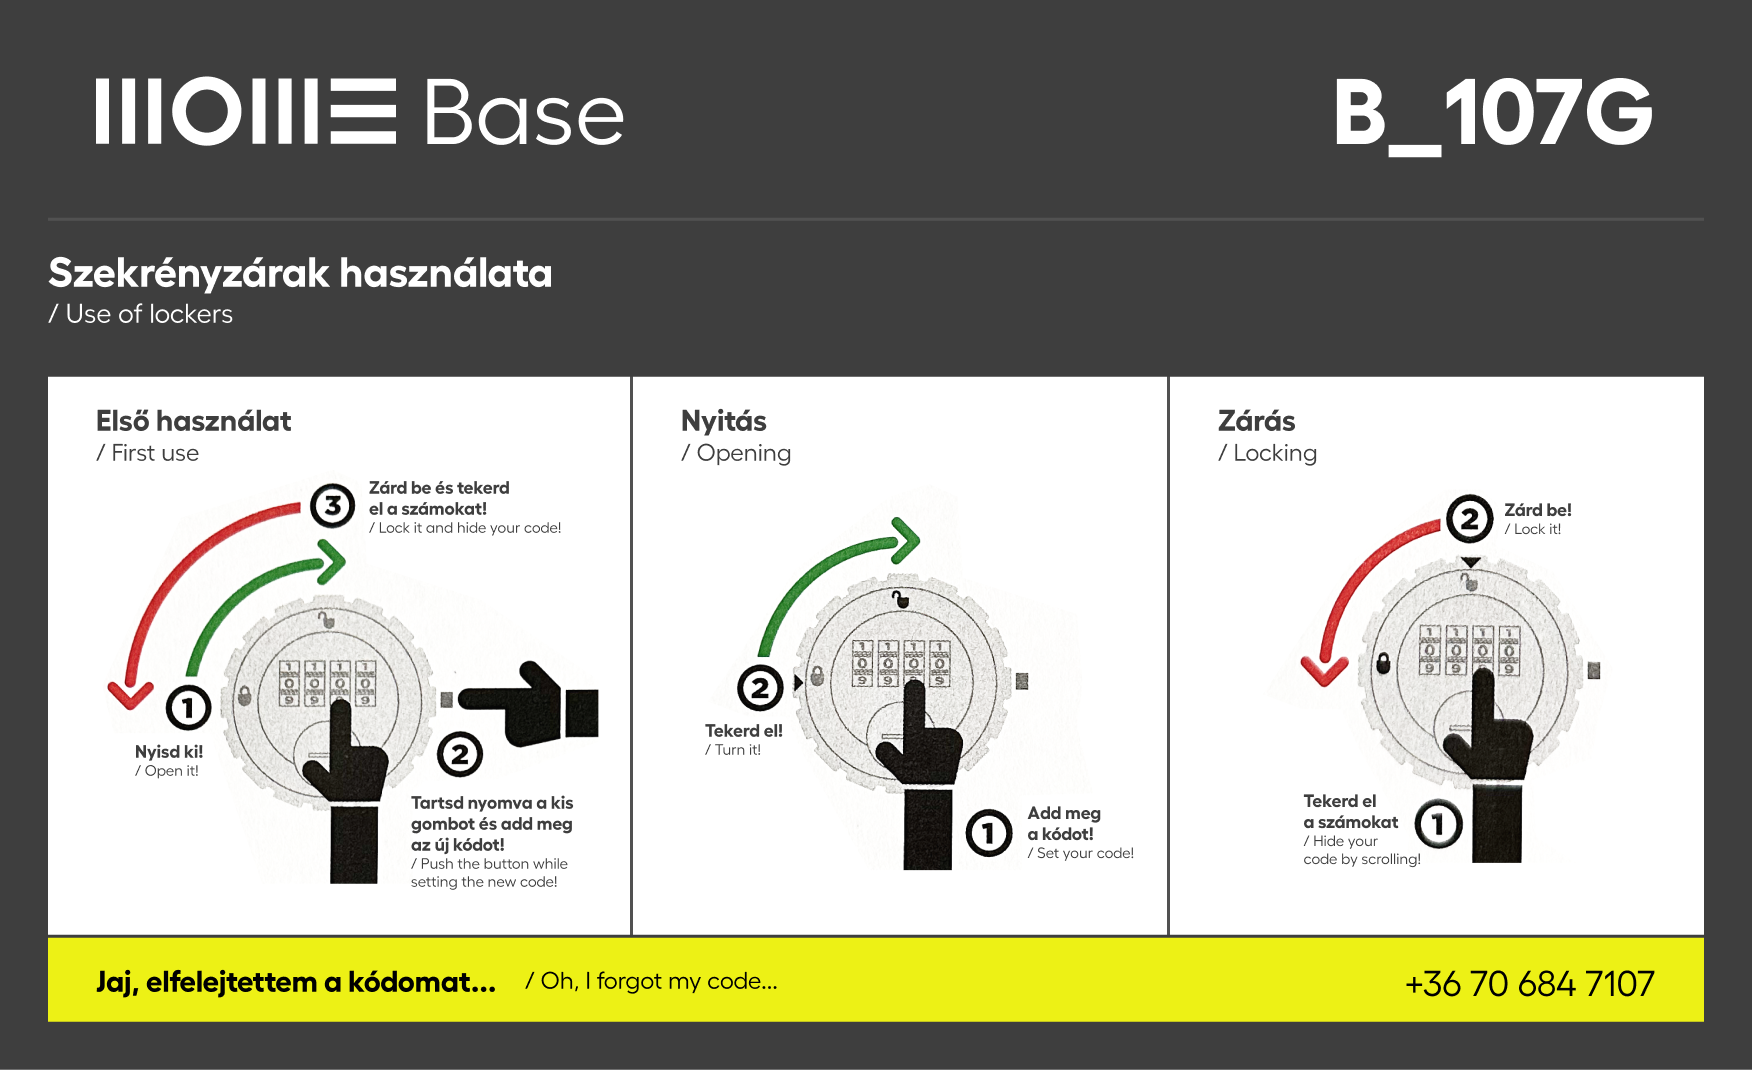
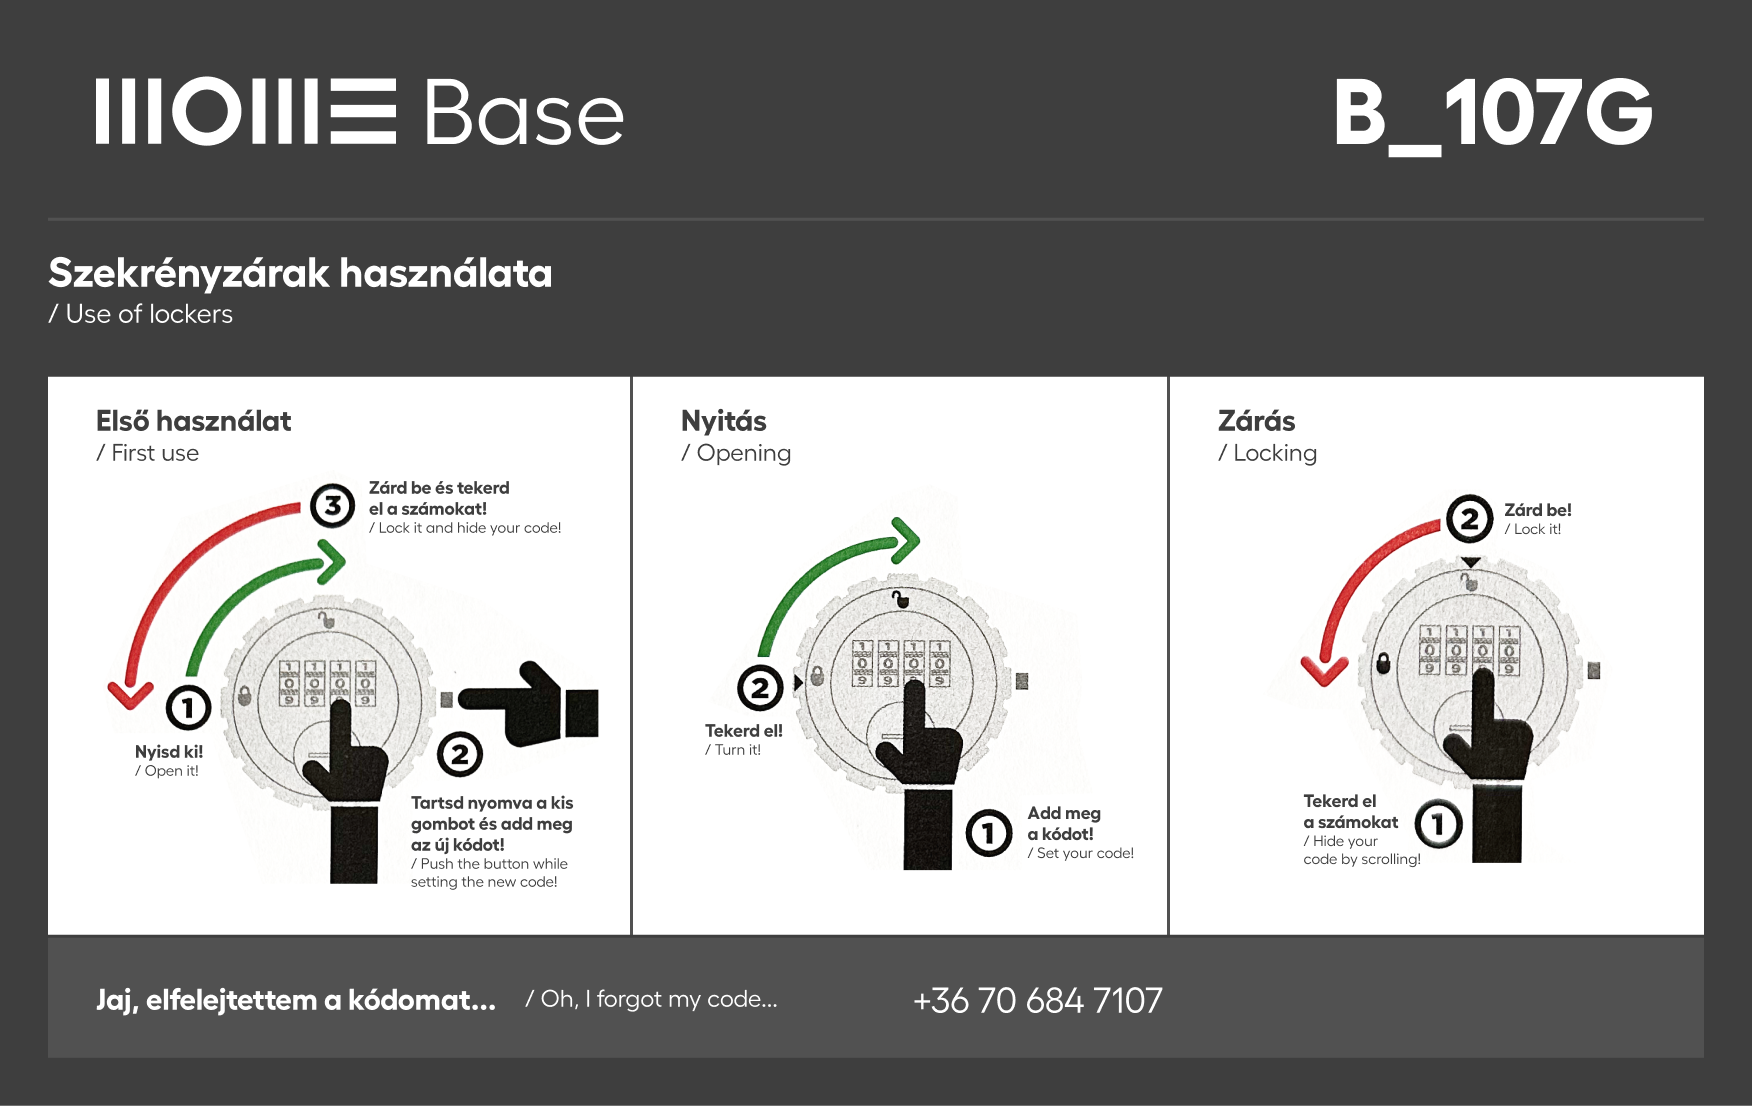
Fixes to call CTA

diff --git a/007_augmented_reality_image_tracking/calssroom-schedule/mome-classroom.html b/007_augmented_reality_image_tracking/calssroom-schedule/mome-classroom.html
@@ -178,7 +178,7 @@
       <!-- marker ID - 7 - B_107G -->
       <a-entity mindar-image-target="targetIndex: 7"> <!-- marker ID -->
         <a-plane src="#card_07" position="0 0 0" height="2.377" width="2.92" rotation="0 0 0" transparent="true"></a-plane>
-        <a-plane id="ctaCall" src="#CTA" position="0 -1.2 0.2" height="0.25" width="0.8" rotation="0 0 0" class="clickable"></a-plane> 
+        <a-plane id="ctaCall" src="#CTA" position="0.93 -0.95 0.05" height="0.15" width="0.8" rotation="0 0 0" class="clickable"></a-plane> 
       </a-entity>
 
       <!-- marker ID - 8 - B_108 -->
